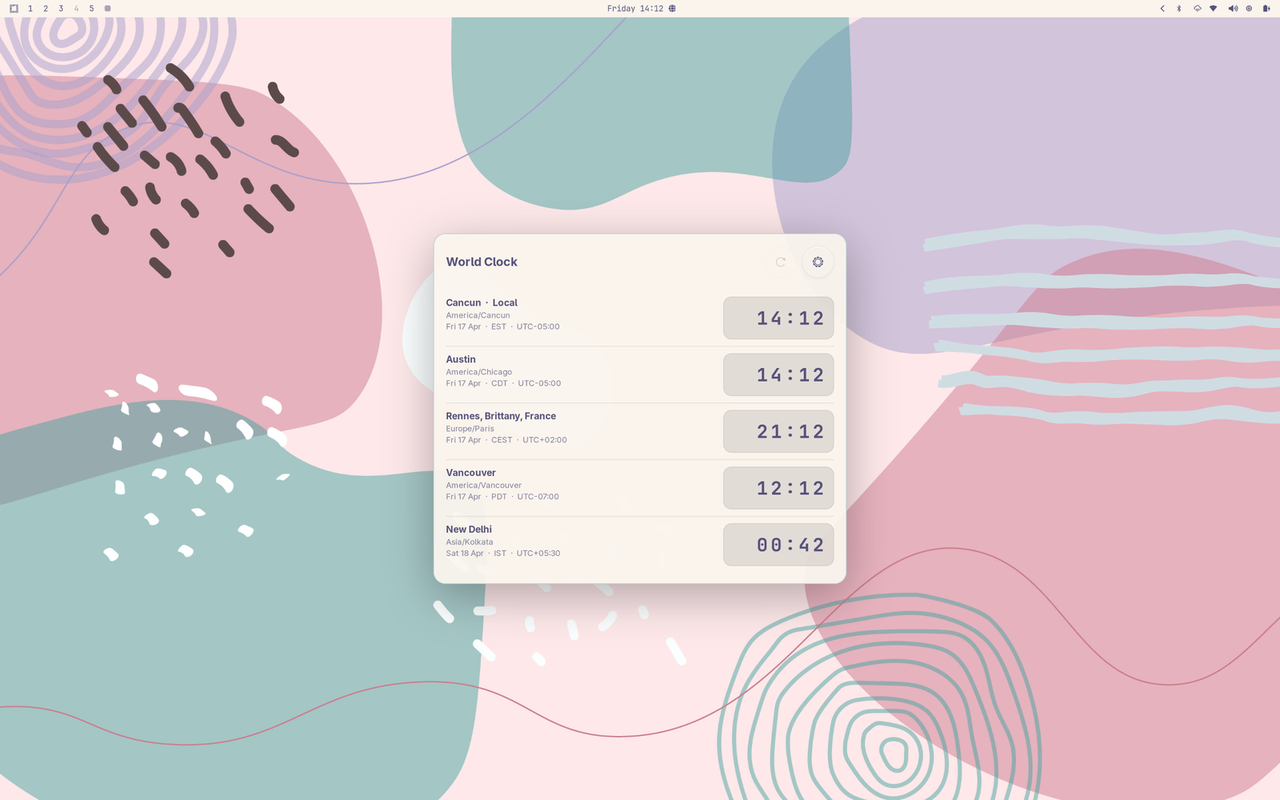
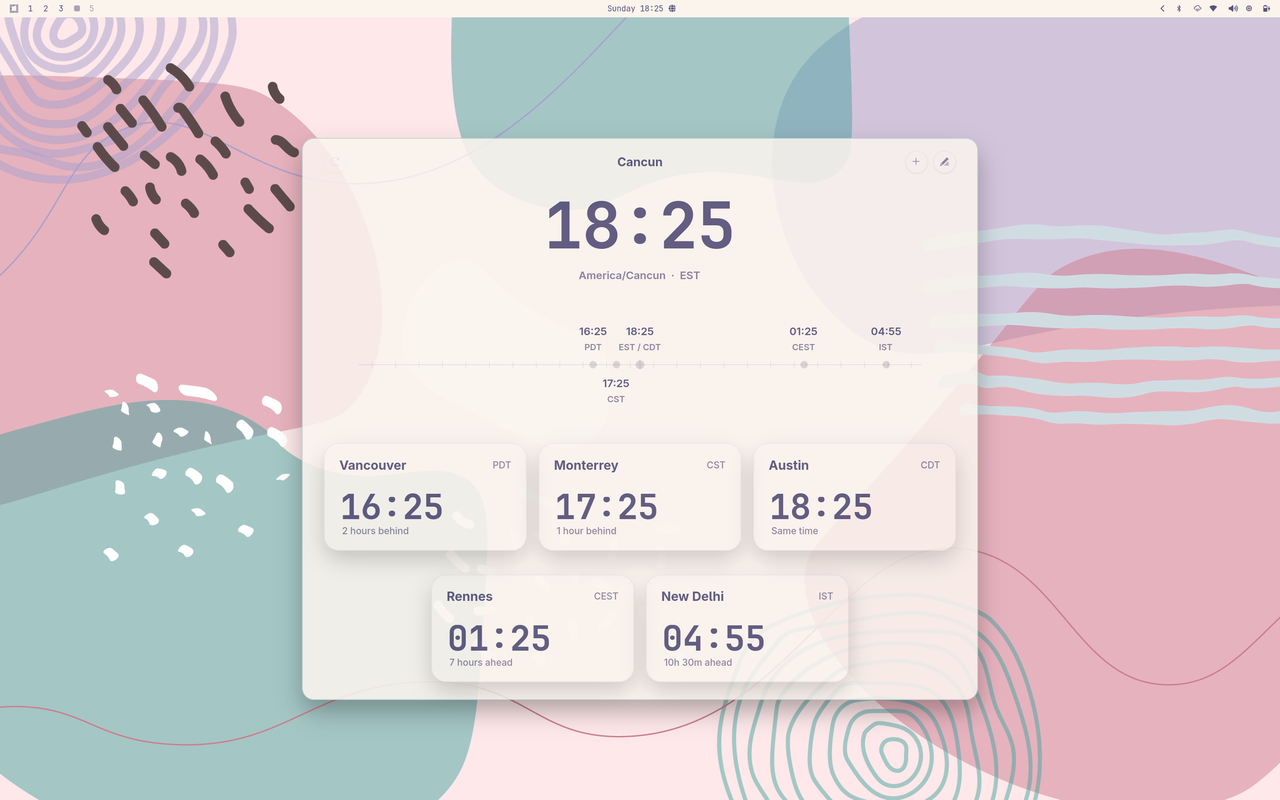
Update screenshots and README theme docs
- Replace outdated popup screenshots with current theme shots
- Document click behavior, search fallback, and theme-aware colors

Changed region(s): [[0.2188, 0.1562, 0.7812, 0.9062], [0.4375, 0.4062, 0.5312, 0.4375], [0.4688, 0.4688, 0.5, 0.5]]

diff --git a/README.md b/README.md
@@ -9,19 +9,31 @@ GTK3 app has been removed.
 
 ## Screenshots
 
-<img src="docs/screenshots/white-popup.png" alt="Omarchy World Clock on the white theme" width="900">
+<p>
+  <strong>Rose Pine</strong><br>
+  <img src="docs/screenshots/rose-pine-popup.png" alt="Omarchy World Clock popup on the Rose Pine theme" width="900">
+</p>
 
-<img src="docs/screenshots/nord-popup.png" alt="Omarchy World Clock on the nord theme" width="900">
+<p>
+  <strong>Gruvbox</strong><br>
+  <img src="docs/screenshots/gruvbox-popup.png" alt="Omarchy World Clock popup on the Gruvbox theme" width="900">
+</p>
 
-<img src="docs/screenshots/rose-pine-popup.png" alt="Omarchy World Clock on the rose-pine theme" width="900">
+<p>
+  <strong>Kanagawa</strong><br>
+  <img src="docs/screenshots/kanagawa-popup.png" alt="Omarchy World Clock popup on the Kanagawa theme" width="900">
+</p>
 
 ## What It Does
 
 - Adds a compact world icon next to Omarchy's center Waybar clock.
+- Toggles the popup on left click and opens `omarchy-tz-select` on right click.
 - Opens a popup with live clocks for a user-managed timezone list.
 - Supports manual reference-time conversion across rows.
+- Supports city/timezone search, with remote place lookup as a fallback.
 - Lets you add, remove, pin, and reorder timezones.
 - Supports `System`, forced `24h`, and forced `AM/PM` display modes.
+- Adapts popup colors to the active Omarchy theme palette.
 - Stores state in `~/.config/omarchy-world-clock/config.json`.
 
 ## Install
